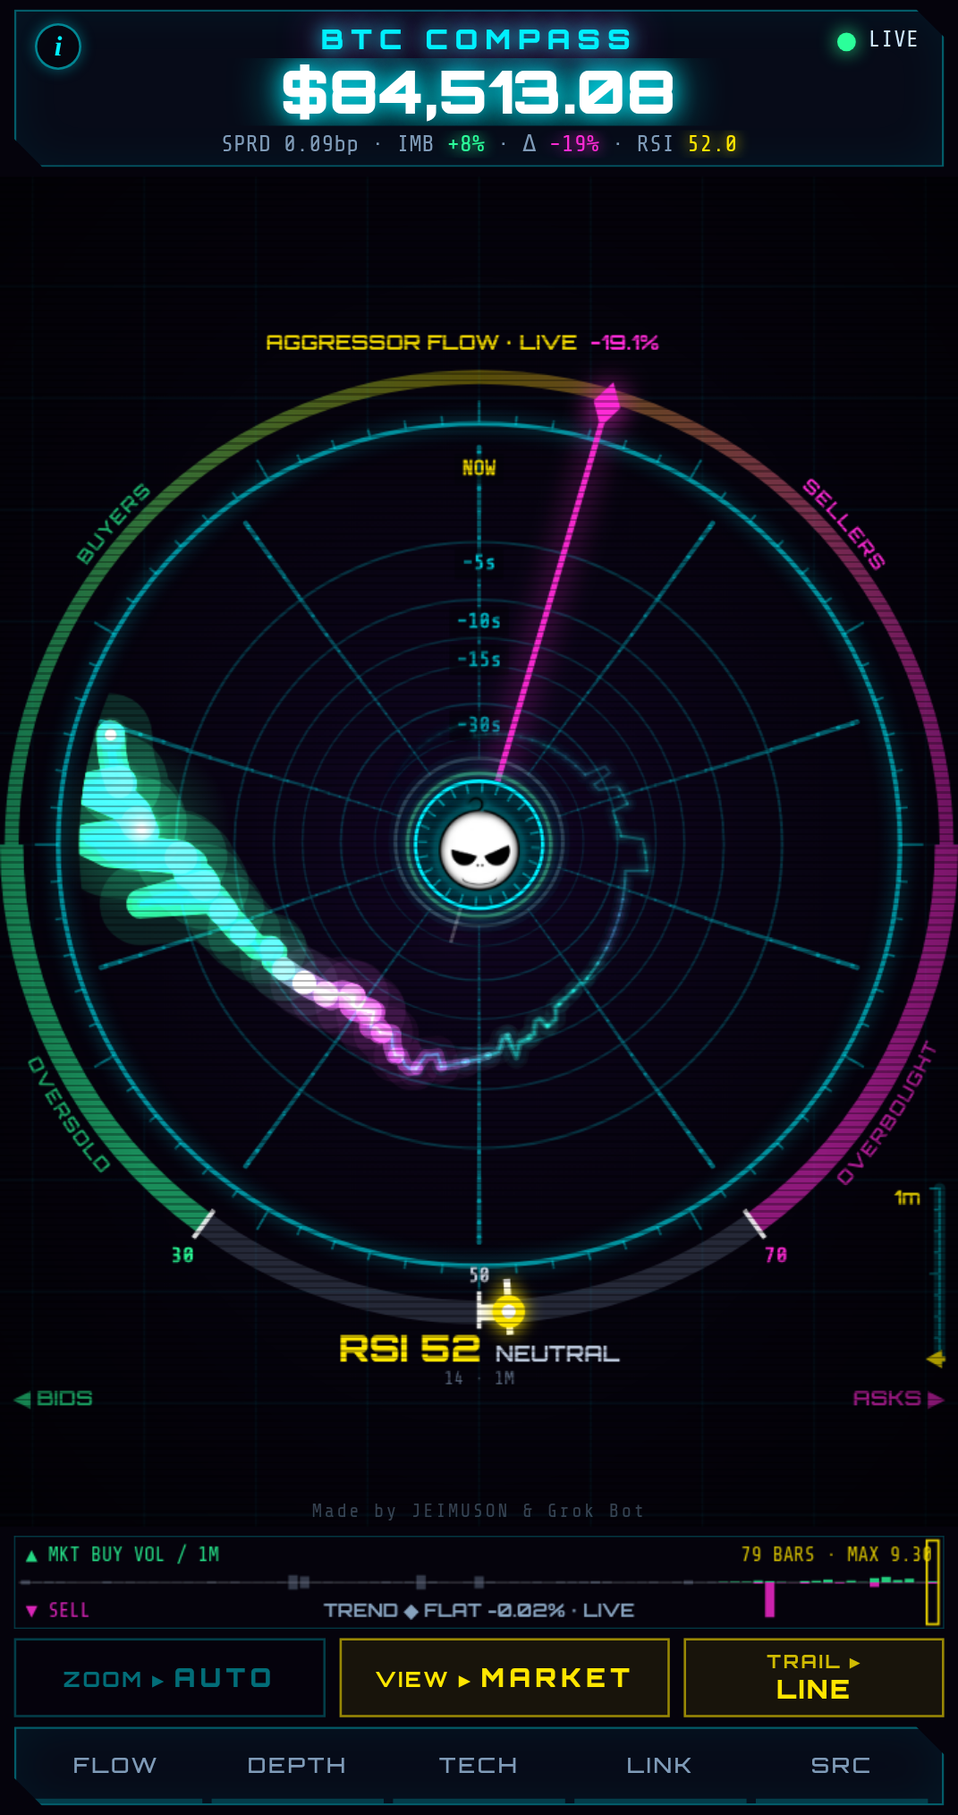
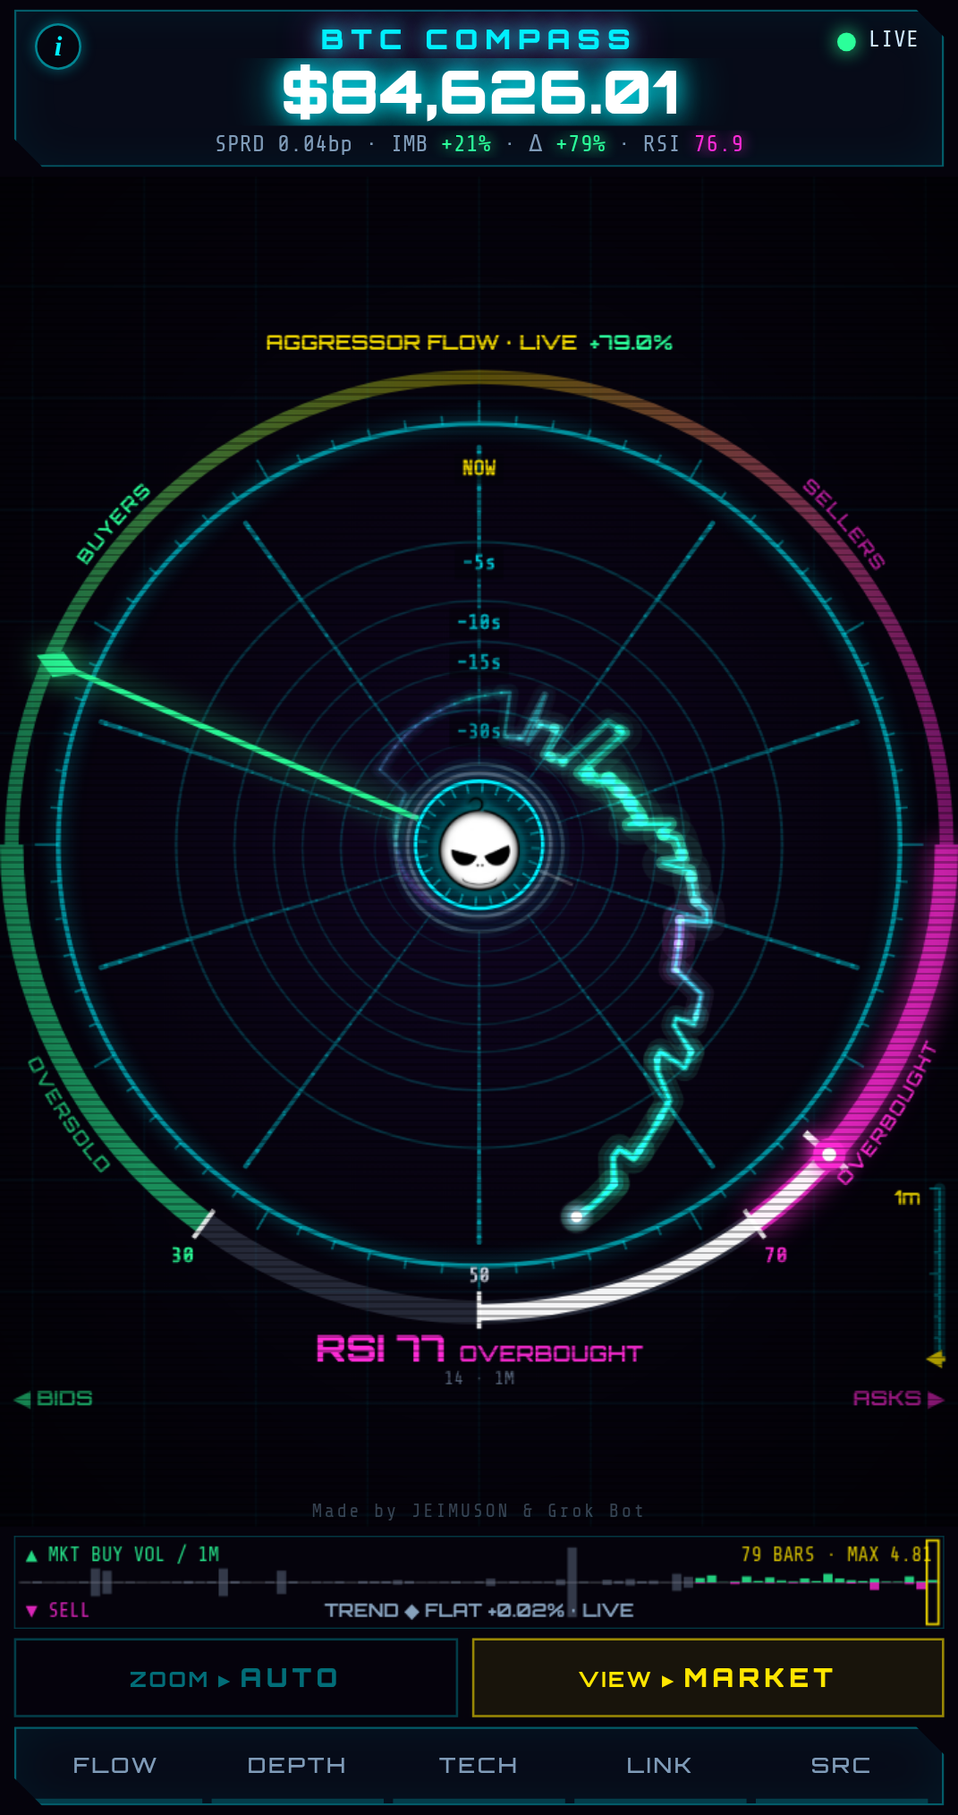
Revert to 1956 content (no trail toggle), clear trail setting (build 20261002-2031)

diff --git a/index.html b/index.html
@@ -3,7 +3,7 @@
 <head>
 <meta charset="utf-8">
 <meta http-equiv="Cache-Control" content="no-cache, no-store, must-revalidate"><meta http-equiv="Pragma" content="no-cache"><meta http-equiv="Expires" content="0">
-<script>window.OFC_BUILD='20261002-2007';(function(){try{if(!/^https?:/.test(location.protocol))return;fetch(location.pathname+'?_='+Date.now(),{cache:'no-store'}).then(r=>r.text()).then(t=>{const m=t.match(/OFC_BUILD='([^']+)'/);if(m&&m[1]!==window.OFC_BUILD&&sessionStorage.getItem('ofcB')!==m[1]){sessionStorage.setItem('ofcB',m[1]);location.replace(location.pathname+'?v='+m[1]+location.hash);}}).catch(()=>{});}catch(e){}})();</script>
+<script>window.OFC_BUILD='20261002-2031';try{localStorage.removeItem('btc.trail')}catch(e){};(function(){try{if(!/^https?:/.test(location.protocol))return;fetch(location.pathname+'?_='+Date.now(),{cache:'no-store'}).then(r=>r.text()).then(t=>{const m=t.match(/OFC_BUILD='([^']+)'/);if(m&&m[1]!==window.OFC_BUILD&&sessionStorage.getItem('ofcB')!==m[1]){sessionStorage.setItem('ofcB',m[1]);location.replace(location.pathname+'?v='+m[1]+location.hash);}}).catch(()=>{});}catch(e){}})();</script>
 <meta name="viewport" content="width=device-width,initial-scale=1,viewport-fit=cover,user-scalable=no">
 <meta name="theme-color" content="#05030c">
 <meta name="color-scheme" content="dark">
@@ -71,7 +71,6 @@ body.hublogo #top .logo{display:none}   /* mobile: logo lives in the compass hub
 #win button.zauto{flex:1.5}.zpill #win button.zauto{display:none !important}#win button.tdir#tdir{flex:1.6}
 #win button.zauto:not(.lit){color:rgba(0,240,255,.45);border-color:rgba(0,240,255,.25);background:rgba(5,3,12,.75)}
 #win button.zauto.lit{box-shadow:0 0 10px rgba(255,230,0,.35)}
-#win button.tdir#tsty{flex:1.25;font-size:8px}#win button#tsty i{display:block;font-style:normal;margin-bottom:3px;opacity:.8}#win button.tdir#tsty b{letter-spacing:1px}body:not(.mkt) #win button#tsty{display:none}
 #win button.on{background:rgba(0,240,255,.22);color:#fff;box-shadow:0 0 12px var(--cy),inset 0 0 10px rgba(0,240,255,.4)}
 #sheet>.panel{padding:0 6px}
 #tabs{display:flex;gap:4px;margin:0}
@@ -104,7 +103,7 @@ body.hublogo #top .logo{display:none}   /* mobile: logo lives in the compass hub
  #app{padding:calc(var(--st) + 6px) calc(env(safe-area-inset-right,0px) + 8px) calc(var(--sb) + 6px) calc(env(safe-area-inset-left,0px) + 8px)}
  #top,#vcv,#sheet{margin:0}
  #win{flex-wrap:wrap;row-gap:6px}
- #win button.zauto,#win button.tdir#tdir,#win button.tdir#tsty{flex:1 1 40%}#win button.tdir#tsty{font-size:9px}#win button#tsty i{display:inline;margin:0}#win button.tdir#tsty b{letter-spacing:2px}
+ #win button.zauto,#win button.tdir#tdir{flex:1 1 40%}
  #vcv{order:-1;flex:0 0 clamp(130px,10.5vw,270px);width:clamp(130px,10.5vw,270px) !important;height:auto;align-self:stretch;min-height:0}
  #pages{display:block;position:static;max-height:none;margin-top:6px}
  #sheetClose{display:none}
@@ -165,8 +164,7 @@ body.hublogo #top .logo{display:none}   /* mobile: logo lives in the compass hub
  <li>One lap = the time window (15–60s, shown on the zoom bar).</li>
  <li>Trail swings <b>out</b> = price up, <b>in</b> = price down.</li>
  <li><b class="gr">Green</b> = buyers, <b class="rd">red</b> = sellers. Thicker trail = more volume.</li>
- <li><b>Flares</b> mark the spots with the heaviest trading.</li>
- <li><b>TRAIL ▸ LINE / CANDLES / HEIKIN ASHI</b> switches the spiral between the flow line and candles along the same path (each candle = window/20; body = open→close, wick = high/low; green up, red down; Heikin Ashi smooths them).</li></ul>
+ <li><b>Flares</b> mark the spots with the heaviest trading.</li></ul>
  <h3>LIMIT VIEW · ORDER-BOOK WALLS</h3>
  <ul><li>Arcs are <b>walls</b> of waiting orders: <b class="gr">buyers left</b>, <b class="rd">sellers right</b>.</li>
  <li>Distance from the middle = distance from the current price.</li>
@@ -195,7 +193,7 @@ body.hublogo #top .logo{display:none}   /* mobile: logo lives in the compass hub
 </div>
 
 <div id="sheet">
- <div id="win"><button id="zauto" class="tdir zauto" title="auto zoom on/off">ZOOM ▸ <b>AUTO</b></button><button id="tdir" class="tdir" title="view mode: limit orders / market orders">VIEW ▸ <b>LIMIT</b></button><button id="tsty" class="tdir" title="MARKET trail style: line / candles / heikin ashi"><i>TRAIL ▸</i> <b>LINE</b></button></div>
+ <div id="win"><button id="zauto" class="tdir zauto" title="auto zoom on/off">ZOOM ▸ <b>AUTO</b></button><button id="tdir" class="tdir" title="view mode: limit orders / market orders">VIEW ▸ <b>LIMIT</b></button></div>
  <div class="panel">
   <div id="tabs"><button data-p="0" class="on">FLOW</button><button data-p="1">DEPTH</button><button data-p="2">TECH</button><button data-p="3">LINK</button><button data-p="4">SRC</button></div>
  </div>
@@ -722,12 +720,8 @@ try{let v=localStorage.getItem('btc.view');
   if(!v){const old=localStorage.getItem('btc.timeDir');v=old==='out'?'market':'limit';localStorage.setItem('btc.view',v);localStorage.removeItem('btc.timeDir');}
   VIEW=v==='market'?'market':'limit';}catch(e){}
 let INBOUND=VIEW==='limit';
-function syncDir(){INBOUND=VIEW==='limit';document.body.classList.toggle('mkt',VIEW==='market');$('tdir').innerHTML=`VIEW ▸ <b>${VIEW==='limit'?'LIMIT':'MARKET'}</b>`;trailDirty=true;}
+function syncDir(){INBOUND=VIEW==='limit';$('tdir').innerHTML=`VIEW ▸ <b>${VIEW==='limit'?'LIMIT':'MARKET'}</b>`;trailDirty=true;}
 $('tdir').onclick=()=>{VIEW=VIEW==='limit'?'market':'limit';try{localStorage.setItem('btc.view',VIEW);}catch(e){}syncDir();};syncDir();
-let TSTY=(()=>{try{const v=localStorage.getItem('btc.trail');return ['line','candles','ha'].includes(v)?v:'line';}catch(e){return 'line';}})();   // MARKET trail style
-function syncTsty(){const n={line:'LINE',candles:'CANDLES',ha:innerWidth<560?'H-ASHI':'HEIKIN ASHI'}[TSTY];$('tsty').innerHTML=`<i>TRAIL ▸</i> <b>${n}</b>`;}
-function setTsty(v){TSTY=v;try{localStorage.setItem('btc.trail',TSTY);}catch(e){}syncTsty();}
-$('tsty').onclick=()=>setTsty(TSTY==='line'?'candles':TSTY==='candles'?'ha':'line');syncTsty();addEventListener('resize',syncTsty);
 const depthOf=age=>INBOUND?Math.max(0,(LWIN-age)*HIST_SEC/LWIN):age;   // LIMIT: newest at the vanishing point, LWIN-old at the ring   // tunnel depth in seconds
 
 const COL={bid:[43,255,154],ask:[255,43,214],cy:[0,240,255],yl:[255,230,0]};
@@ -1465,14 +1459,14 @@ function drawTrail(now){
     BSP=Math.max(mid*0.00002,0.6*(dv[Math.floor(dv.length*0.9)]||0));}   // AUTO: ~90th-pct move maps to ~1.6x amplitude (tanh softens outliers)
   const WIG=[];
   const AMAX=Math.max(1,Math.min(trail.length-1+lag,MWIN)), DZ=HIST_SEC/MWIN, KO=0.985, sMin=FOCAL/(FOCAL+AMAX*DZ);
-  const pt=(f,PX)=>{const age=f===0?0:f+lag,dz=age*DZ,p=proj(dz),s=p.s,sT=FOCAL/(FOCAL+dz+TURN*DZ);
+  const pt=f=>{const age=f===0?0:f+lag,dz=age*DZ,p=proj(dz),s=p.s,sT=FOCAL/(FOCAL+dz+TURN*DZ);
     const u=Math.max(0,Math.min(1,(s-sMin)/(1-sMin)))*Math.min(1,(AMAX-age)/6+0.0);
     // radial wiggle = (trade price - newest trade) / bulge scale, amplitude scales with perspective; soft (tanh) limit ~0.55 coil gap
-    const raw=((PX==null?prAt(f):PX)-P0)/BSP*RMAX*KO*s*0.22, L=Math.max(2,0.55*RMAX*KO*(s-sT)), off=L*Math.tanh(raw/L);
+    const raw=(prAt(f)-P0)/BSP*RMAX*KO*s*0.22, L=Math.max(2,0.55*RMAX*KO*(s-sT)), off=L*Math.tanh(raw/L);
     const r=RMAX*KO*s+off, th=ang(age);   // head (f=0) = newest trade -> off 0 -> rides the outer ring
     let x=p.x+Math.cos(th)*r, y=p.y+Math.sin(th)*r;
     {const dx=x-CX,dy=y-CY,d=Math.hypot(dx,dy),m=RMAX*0.995,k0=0.9*m;if(d>k0){const dd=k0+(m-k0)*Math.tanh((d-k0)/(m-k0));x=CX+dx*dd/d;y=CY+dy*dd/d;}}   // soft outer edge
-    if(PX==null){if(WIG.length<4000)WIG.push(off); if(f===3||f===8)(window.__ofcR=window.__ofcR||{})['o'+f]=off;}
+    if(WIG.length<4000)WIG.push(off); if(f===3||f===8)(window.__ofcR=window.__ofcR||{})['o'+f]=off;
     return {x,y,s,u};};
   const SUB=MWIN<=20?10:MWIN<=45?6:MWIN<=90?4:3, sub=a=>{const o=[];for(let j=0;j<=SUB;j++)o.push(pt(a+j/SUB));return o;};
   const P=[];for(let a=0;a<=NW;a++)P.push(pt(a));
@@ -1487,12 +1481,12 @@ function drawTrail(now){
   // centreline spine: thin continuous track that fades into the vanishing point
   ctx.lineWidth=1;
   const S=[];for(let a=0;a<P.length-1;a++)S.push(sub(a));
-  for(const [lw,al] of (TSTY!=='line'?[[6,0.07],[1.4,0.38]]:LOW?[[10,0.10],[4.5,0.16],[1.6,0.75]]:[[14,0.07],[8,0.12],[4,0.18],[1.6,0.75]])){ctx.lineWidth=lw*Math.max(0.8,RMAX/400);
+  for(const [lw,al] of (LOW?[[10,0.10],[4.5,0.16],[1.6,0.75]]:[[14,0.07],[8,0.12],[4,0.18],[1.6,0.75]])){ctx.lineWidth=lw*Math.max(0.8,RMAX/400);
     for(let a=0;a<S.length;a++){const q=S[a];ctx.strokeStyle=`rgba(0,240,255,${(al*Math.pow(P[a].u,0.8)).toFixed(3)})`;
       ctx.beginPath();ctx.moveTo(q[0].x,q[0].y);for(let j=1;j<q.length;j++)ctx.lineTo(q[j].x,q[j].y);ctx.stroke();}}
   // volume ribbon: colour = buy/sell dominance, width = volume; thins and fades with depth
   ctx.globalCompositeOperation='lighter';
-  if(TSTY==='line')for(let a=P.length-2;a>=0;a--){const b=trail[a],v=b.bs+b.ss;if(v<=0)continue;
+  for(let a=P.length-2;a>=0;a--){const b=trail[a],v=b.bs+b.ss;if(v<=0)continue;
     const rel=Math.sqrt(v/vref),c=mixCol((b.bs-b.ss)/v),p0=P[a],p1=P[a+1],u=p0.u;if(u<=0.01)continue;
     const ht=hot[a],LW=(2.4+RMAX*0.07*rel+RMAX*0.05*ht)*(0.12+0.88*u);
     {const q=S[a];ctx.shadowBlur=0;ctx.strokeStyle=rgba(c,(0.16*Math.pow(u,0.9)).toFixed(3));ctx.lineWidth=LW*2.4+6*(0.3+0.7*u);ctx.beginPath();ctx.moveTo(q[0].x,q[0].y);for(let j=1;j<q.length;j++)ctx.lineTo(q[j].x,q[j].y);ctx.stroke();}   // wide soft glow underlay
@@ -1500,32 +1494,6 @@ function drawTrail(now){
     if(Q>0&&(rel>0.25||ht>0.3)&&u>0.3){ctx.shadowColor=rgba(c,1);ctx.shadowBlur=(18*rel+26*ht*(0.7+0.3*pulse))*u;}else ctx.shadowBlur=0;
     {const q=S[a];ctx.beginPath();ctx.moveTo(q[0].x,q[0].y);for(let j=1;j<q.length;j++)ctx.lineTo(q[j].x,q[j].y);ctx.stroke();}}
   ctx.shadowBlur=0;
-  // CANDLES / HEIKIN ASHI trail: buckets of window/20 (fixed time boundaries) laid along the same spiral path; body runs radially
-  // open->close and the wick high->low on the spiral's own price scale (pt(f,price)), so one lap still = the window
-  if(TSTY!=='line'){const Bk=Math.max(0.25,MWIN/20),ph=(dn/1000)%Bk||Bk,NB=Math.ceil(Math.max(0,AMAX-ph)/Bk)+1,tot=NB+(TSTY==='ha'?12:0),t0=dn-(ph+(tot-1)*Bk)*1000;
-    const C=[];for(let k=0;k<tot;k++)C.push({o:null,h:-Infinity,l:Infinity,c:null});
-    for(let i=trades.length-1;i>=0;i--){const t=trades[i];if(t.t<t0)break;const ag=(dn-t.t)/1000;if(ag<0)continue;const k=ag<=ph?0:Math.ceil((ag-ph)/Bk);if(k>=tot)continue;const b=C[k];
-      if(b.c==null)b.c=t.px;b.o=t.px;if(t.px>b.h)b.h=t.px;if(t.px<b.l)b.l=t.px;}   // newest->oldest: first seen = close, last seen = open
-    {let pc=null;for(let k=tot-1;k>=0;k--){const b=C[k];if(b.c==null){if(pc!=null){b.o=b.c=b.h=b.l=pc;}}else pc=b.c;}}   // quiet bucket = flat doji at the last close
-    if(TSTY==='ha'){let po=null,pq=null;for(let k=tot-1;k>=0;k--){const b=C[k];if(b.c==null)continue;   // standard Heikin Ashi on the same buckets
-      const hc=(b.o+b.h+b.l+b.c)/4,ho=po==null?(b.o+b.c)/2:(po+pq)/2;b.h=Math.max(b.h,ho,hc);b.l=Math.min(b.l,ho,hc);b.o=ho;b.c=hc;po=ho;pq=hc;}}
-    const sc=Math.max(0.8,RMAX/400);let nd=0;ctx.globalCompositeOperation='source-over';
-    for(let k=Math.min(NB,tot)-1;k>=0;k--){const b=C[k];if(b.c==null)continue;const a0=k===0?0:ph+(k-1)*Bk,a1=Math.min(AMAX,k===0?ph:ph+k*Bk);if(a1-a0<0.04)continue;
-      const g=(a1-a0)*0.13,f0=a0+g-lag,f1=a1-g-lag,fm=(a0+a1)/2-lag,u=pt(fm,b.c).u;if(u<=0.02)continue;
-      const up=b.c>=b.o,col=up?COL.bid:[255,59,107],hi=[Math.min(255,col[0]+90),Math.min(255,col[1]+90),Math.min(255,col[2]+90)],uu=Math.min(1,0.25+Math.pow(u,0.7));
-      const E1=[pt(f0,b.o),pt(fm,b.o),pt(f1,b.o)],E2=[pt(f1,b.c),pt(fm,b.c),pt(f0,b.c)],wh=pt(fm,b.h),wl=pt(fm,b.l);
-      ctx.shadowBlur=0;ctx.strokeStyle=rgba(hi,(0.9*uu).toFixed(3));ctx.lineWidth=Math.max(1.2,1.6*sc*(0.45+0.55*u));ctx.beginPath();ctx.moveTo(wh.x,wh.y);ctx.lineTo(wl.x,wl.y);ctx.stroke();   // wick
-      const thick=Math.hypot(E1[1].x-E2[1].x,E1[1].y-E2[1].y);
-      {const ob=[...E1,...E2];ctx.globalCompositeOperation='lighter';ctx.strokeStyle=rgba(col,(0.16*uu).toFixed(3));ctx.lineWidth=Math.max(5,9*sc*(0.4+0.6*u));ctx.beginPath();ctx.moveTo(ob[0].x,ob[0].y);for(const p of ob.slice(1))ctx.lineTo(p.x,p.y);ctx.closePath();ctx.stroke();ctx.globalCompositeOperation='source-over';}   // soft glow band
-      if(Q>0&&u>0.2){ctx.shadowColor=rgba(col,0.95);ctx.shadowBlur=(6+10*u)*sc;}
-      if(thick<3){ctx.lineCap='butt';ctx.strokeStyle=rgba(hi,(0.95*uu).toFixed(3));ctx.lineWidth=Math.max(3,4.5*sc*(0.45+0.55*u));ctx.beginPath();ctx.moveTo(E1[0].x,E1[0].y);ctx.lineTo(E1[1].x,E1[1].y);ctx.lineTo(E1[2].x,E1[2].y);ctx.stroke();ctx.lineCap='round';}   // doji = solid bar along the spiral
-      else{const path=()=>{ctx.beginPath();ctx.moveTo(E1[0].x,E1[0].y);for(const p of E1.slice(1))ctx.lineTo(p.x,p.y);for(const p of E2)ctx.lineTo(p.x,p.y);ctx.closePath();};
-        ctx.fillStyle=`rgba(4,8,18,${(0.85*uu).toFixed(3)})`;path();ctx.fill();ctx.shadowBlur=0;
-        ctx.fillStyle=rgba(col,((up?0.78:0.72)*uu).toFixed(3));path();ctx.fill();
-        ctx.strokeStyle=rgba(hi,(0.95*uu).toFixed(3));ctx.lineWidth=Math.max(1.2,1.5*sc*(0.5+0.5*u));path();ctx.stroke();}
-      nd++;if(k===0)window.__ofcC={n:0,o:b.o,h:b.h,l:b.l,c:b.c,B:Bk};}
-    if(window.__ofcC)window.__ofcC.n=nd;
-    ctx.shadowBlur=0;ctx.globalCompositeOperation='lighter';}
   // bloom + twinkling sparks where the trail crosses the most-traded levels
   TRHOT=[];
   for(let a=1;a<P.length;a++){const ht=hot[a],p=P[a];if(ht<0.3||p.u<0.08)continue;const b=trail[a],v=b.bs+b.ss,c=v>0?mixCol((b.bs-b.ss)/v):COL.yl;
@@ -1741,7 +1709,7 @@ function frame(){
 connect();seedREST();
 requestAnimationFrame(frame);
 document.addEventListener('visibilitychange',()=>{if(!document.hidden&&(!ws||ws.readyState>1)){backoff=1000;connect();}});
-window.__ofc={get tsty(){return TSTY},setTsty,get cdl(){return window.__ofcC||null},simEat(ms,kind,hold,px){EAT={t0:Date.now(),ms,kind:kind||'eat',hold:hold==null?0:hold,px:px||0,q0:0,lq:null};},get spoof(){return {n:{...SPF.n},trk:SPF.trk.size,ev:SPF.ev.slice(-6).map(o=>({k:o.kind,s:o.side,px:o.px,q0:+o.q0.toFixed(1),q1:+o.q1.toFixed(1),ratio:o.ratio,spoof:o.spoof,big:o.big,ven:o.ven}))}},get eat(){const n=performance.now();return EAT&&{px:EAT.px,q0:EAT.q0,ref:REFQ,cp:history.filter((h,i)=>i%8===0&&(n-h.t)/1000<=LWIN).map(h=>{const e=h.b.find(x=>x[0]===EAT.px);return e?[Math.round((n-h.t)/1000),+levelSpan(e[1],REFQ||h.maxq).toFixed(3)]:null;}).filter(Boolean)}},get mt(){return {w:+MT.w.toFixed(1),q:+MT.q.toFixed(2),z:+MT.z.toFixed(2),sg:MT.sg,burst:burst.on}},get lt(){return {w:+LT.w.toFixed(1),rho:+LT.rho.toFixed(2),lwin:+LWIN.toFixed(1),burst:burst.on}},get keyWalls(){return VIEW==='limit'?{...KEYW,nSig:{bid:topWalls.bid.length,ask:topWalls.ask.length},marks:PLBL.map(q=>q.txt)}:null},simFlat(){SIM={on:true,base:mid,t0:0,dir:0,amp:0,ramp:1};},simMove(dir,frac,ramp){SIM.t0=Date.now();SIM.dir=dir;SIM.amp=frac*SIM.base;SIM.ramp=ramp;},get resp(){const v=proj(HIST_SEC),m=proj(HIST_SEC*0.4);return {tw:+(TWIST_MAX*VSP.w*180/Math.PI).toFixed(2),vp:+(v.y-CY).toFixed(1),vm:+(m.y-CY).toFixed(1),o3:+((window.__ofcR||{}).o3||0).toFixed(1),o8:+((window.__ofcR||{}).o8||0).toFixed(1),mw:+MWIN.toFixed(1),dr:dispRange,pr:pathRef}},get bp(){return BP.length},autoOff(){pillT=0;if(rangeAuto)pillTap();},get dr(){return dispRange},get hubLogo(){return !WIDE&&LOGO.complete&&LOGO.naturalWidth>0},get hdrLogo(){const e=document.querySelector('#top .logo');return !!e&&getComputedStyle(e).display!=='none'},get flares(){return VIEW==='market'?[...FLR.entries()].map(([k,F])=>{const p=F.dx!=null?{x:F.dx,y:F.dy}:null;return {k,T:F.T,tT:trailT,st:trailStep,w:+F.w.toFixed(2),on:!!F.on,side:F.c===COL.bid?'bid':'ask',x:p?Math.round(p.x):null,y:p?Math.round(p.y):null};}):null},winTo(S){intro=null;setAuto(false);syncZA();let lo=0,hi=1;const f=u=>mWinOf(zR(u));const dec=f(0)>f(1);for(let i=0;i<40;i++){const m=(lo+hi)/2;if((f(m)>S)===dec)lo=m;else hi=m;}rangeFrac=zR((lo+hi)/2);return f((lo+hi)/2);},get vring(){if(VIEW!=='market')return null;const p=proj(HIST_SEC);return {full:+(RMAX*p.s).toFixed(1),r:+(RMAX*p.s).toFixed(1),x:Math.round(p.x),y:Math.round(p.y),R0:Math.round(R0)}},get twist(){return VIEW==='market'?+(TWIST_MAX*VSP.w*180/Math.PI).toFixed(1):0},get spin(){return {w:+VSP.w.toFixed(3),ph:+VSP.ph.toFixed(3)}},zManual(){intro=null;setAuto(false);syncZA();},get burst(){return {...burst,now:Date.now()}},simBurst(usd){const px=trades.length?trades[trades.length-1].px:mid,n=Date.now();for(let k=0;k<8;k++)trades.push({t:n-(7-k)*300,side:k%2?'sell':'buy',qty:usd/8/px,px,v:'kraken'});trailDirty=true;},get auto(){return rangeAuto},zAuto(){intro=null;setAuto(true);syncZA();},zIn(){intro=null;setAuto(false);rangeFrac=zR(1);syncZA();},get mwin(){return +MWIN.toFixed(1)},get lwin(){return +LWIN.toFixed(1)},get prange(){return PRANGE},get disp(){return dispRange},get plbl(){return PLBL.map(q=>q.txt)},get hubTxt(){return mid?hubTxt():null},get head(){return {x:Math.round(TRHEAD.x),y:Math.round(TRHEAD.y),CX,CY,R0:Math.round(R0),RMAX:Math.round(RMAX)}},get logo(){const g=logoGeom();return g&&{x:Math.round(g.x),y:Math.round(g.y),S:g.S,CX,CY,RMAX,W,H,Z:zbarGeom()}},get ven(){return Object.fromEntries(Object.entries(VEN).map(([k,v])=>[k,{st:v.st,share:+v.share.toFixed(3),books:BOOKS.filter(B=>B.v===k).map(B=>({k:B.k,ready:B.ready,n:B.b.size+B.a.size,ck:B.ckOk,ckBad:B.ckBad,resyncs:B.resyncs}))}]))},get src(){return SRC},setSource,get comb(){return {ready:BREADY,mid,bestBid,bestAsk,nb:sortedB.length,na:sortedA.length}},get raw(){return RAW.length},get flow(){const f=flow(30);return {b:Math.round(f.b),s:Math.round(f.s),r:+f.r.toFixed(3)}},get trendW(){return trendWin()},get win(){return winSec},get heatN(){return Object.fromEntries(Object.entries(HEATS).map(([w,H])=>[w,H.m.size]))},get intro(){return intro},book,get mid(){return mid},get ck(){return {ckOk,ckBad,ckLast}},get trades(){return tradeCount},get bubbles(){return bubbles.length},get hist(){return history.length},get ind(){return ind},get candles(){return candles.size},get dir(){return INBOUND?'in':'out'},get view(){return VIEW},get layout(){return {W,H,CX,CY,RMAX,R0,WIDE}},get tunnel(){const far=proj(HIST_SEC);return {FOCAL,farScale:far.s,farY:far.y-CY,dispRange,fitFrac,rangeAuto,RMAX}},zoom(f){setAuto(false);rangeFrac=Math.min(0.08,Math.max(0.0005,rangeFrac*f));},autoZoom(){setAuto(true);},get autoOn(){return rangeAuto},get zgeom(){return zbarGeom()},get conn(){return connState},get fps(){return FPS},get q(){return Q},get rc(){return reconnects},forceDrop(){ws&&ws.close();}};
+window.__ofc={simEat(ms,kind,hold,px){EAT={t0:Date.now(),ms,kind:kind||'eat',hold:hold==null?0:hold,px:px||0,q0:0,lq:null};},get spoof(){return {n:{...SPF.n},trk:SPF.trk.size,ev:SPF.ev.slice(-6).map(o=>({k:o.kind,s:o.side,px:o.px,q0:+o.q0.toFixed(1),q1:+o.q1.toFixed(1),ratio:o.ratio,spoof:o.spoof,big:o.big,ven:o.ven}))}},get eat(){const n=performance.now();return EAT&&{px:EAT.px,q0:EAT.q0,ref:REFQ,cp:history.filter((h,i)=>i%8===0&&(n-h.t)/1000<=LWIN).map(h=>{const e=h.b.find(x=>x[0]===EAT.px);return e?[Math.round((n-h.t)/1000),+levelSpan(e[1],REFQ||h.maxq).toFixed(3)]:null;}).filter(Boolean)}},get mt(){return {w:+MT.w.toFixed(1),q:+MT.q.toFixed(2),z:+MT.z.toFixed(2),sg:MT.sg,burst:burst.on}},get lt(){return {w:+LT.w.toFixed(1),rho:+LT.rho.toFixed(2),lwin:+LWIN.toFixed(1),burst:burst.on}},get keyWalls(){return VIEW==='limit'?{...KEYW,nSig:{bid:topWalls.bid.length,ask:topWalls.ask.length},marks:PLBL.map(q=>q.txt)}:null},simFlat(){SIM={on:true,base:mid,t0:0,dir:0,amp:0,ramp:1};},simMove(dir,frac,ramp){SIM.t0=Date.now();SIM.dir=dir;SIM.amp=frac*SIM.base;SIM.ramp=ramp;},get resp(){const v=proj(HIST_SEC),m=proj(HIST_SEC*0.4);return {tw:+(TWIST_MAX*VSP.w*180/Math.PI).toFixed(2),vp:+(v.y-CY).toFixed(1),vm:+(m.y-CY).toFixed(1),o3:+((window.__ofcR||{}).o3||0).toFixed(1),o8:+((window.__ofcR||{}).o8||0).toFixed(1),mw:+MWIN.toFixed(1),dr:dispRange,pr:pathRef}},get bp(){return BP.length},autoOff(){pillT=0;if(rangeAuto)pillTap();},get dr(){return dispRange},get hubLogo(){return !WIDE&&LOGO.complete&&LOGO.naturalWidth>0},get hdrLogo(){const e=document.querySelector('#top .logo');return !!e&&getComputedStyle(e).display!=='none'},get flares(){return VIEW==='market'?[...FLR.entries()].map(([k,F])=>{const p=F.dx!=null?{x:F.dx,y:F.dy}:null;return {k,T:F.T,tT:trailT,st:trailStep,w:+F.w.toFixed(2),on:!!F.on,side:F.c===COL.bid?'bid':'ask',x:p?Math.round(p.x):null,y:p?Math.round(p.y):null};}):null},winTo(S){intro=null;setAuto(false);syncZA();let lo=0,hi=1;const f=u=>mWinOf(zR(u));const dec=f(0)>f(1);for(let i=0;i<40;i++){const m=(lo+hi)/2;if((f(m)>S)===dec)lo=m;else hi=m;}rangeFrac=zR((lo+hi)/2);return f((lo+hi)/2);},get vring(){if(VIEW!=='market')return null;const p=proj(HIST_SEC);return {full:+(RMAX*p.s).toFixed(1),r:+(RMAX*p.s).toFixed(1),x:Math.round(p.x),y:Math.round(p.y),R0:Math.round(R0)}},get twist(){return VIEW==='market'?+(TWIST_MAX*VSP.w*180/Math.PI).toFixed(1):0},get spin(){return {w:+VSP.w.toFixed(3),ph:+VSP.ph.toFixed(3)}},zManual(){intro=null;setAuto(false);syncZA();},get burst(){return {...burst,now:Date.now()}},simBurst(usd){const px=trades.length?trades[trades.length-1].px:mid,n=Date.now();for(let k=0;k<8;k++)trades.push({t:n-(7-k)*300,side:k%2?'sell':'buy',qty:usd/8/px,px,v:'kraken'});trailDirty=true;},get auto(){return rangeAuto},zAuto(){intro=null;setAuto(true);syncZA();},zIn(){intro=null;setAuto(false);rangeFrac=zR(1);syncZA();},get mwin(){return +MWIN.toFixed(1)},get lwin(){return +LWIN.toFixed(1)},get prange(){return PRANGE},get disp(){return dispRange},get plbl(){return PLBL.map(q=>q.txt)},get hubTxt(){return mid?hubTxt():null},get head(){return {x:Math.round(TRHEAD.x),y:Math.round(TRHEAD.y),CX,CY,R0:Math.round(R0),RMAX:Math.round(RMAX)}},get logo(){const g=logoGeom();return g&&{x:Math.round(g.x),y:Math.round(g.y),S:g.S,CX,CY,RMAX,W,H,Z:zbarGeom()}},get ven(){return Object.fromEntries(Object.entries(VEN).map(([k,v])=>[k,{st:v.st,share:+v.share.toFixed(3),books:BOOKS.filter(B=>B.v===k).map(B=>({k:B.k,ready:B.ready,n:B.b.size+B.a.size,ck:B.ckOk,ckBad:B.ckBad,resyncs:B.resyncs}))}]))},get src(){return SRC},setSource,get comb(){return {ready:BREADY,mid,bestBid,bestAsk,nb:sortedB.length,na:sortedA.length}},get raw(){return RAW.length},get flow(){const f=flow(30);return {b:Math.round(f.b),s:Math.round(f.s),r:+f.r.toFixed(3)}},get trendW(){return trendWin()},get win(){return winSec},get heatN(){return Object.fromEntries(Object.entries(HEATS).map(([w,H])=>[w,H.m.size]))},get intro(){return intro},book,get mid(){return mid},get ck(){return {ckOk,ckBad,ckLast}},get trades(){return tradeCount},get bubbles(){return bubbles.length},get hist(){return history.length},get ind(){return ind},get candles(){return candles.size},get dir(){return INBOUND?'in':'out'},get view(){return VIEW},get layout(){return {W,H,CX,CY,RMAX,R0,WIDE}},get tunnel(){const far=proj(HIST_SEC);return {FOCAL,farScale:far.s,farY:far.y-CY,dispRange,fitFrac,rangeAuto,RMAX}},zoom(f){setAuto(false);rangeFrac=Math.min(0.08,Math.max(0.0005,rangeFrac*f));},autoZoom(){setAuto(true);},get autoOn(){return rangeAuto},get zgeom(){return zbarGeom()},get conn(){return connState},get fps(){return FPS},get q(){return Q},get rc(){return reconnects},forceDrop(){ws&&ws.close();}};
 })();
 // ---------------- INFO overlay: what am I looking at? (✕ / tap outside / Esc) ----------------
 (function(){const I=document.getElementById('info'),B=document.getElementById('infoBtn');if(!I||!B)return;
